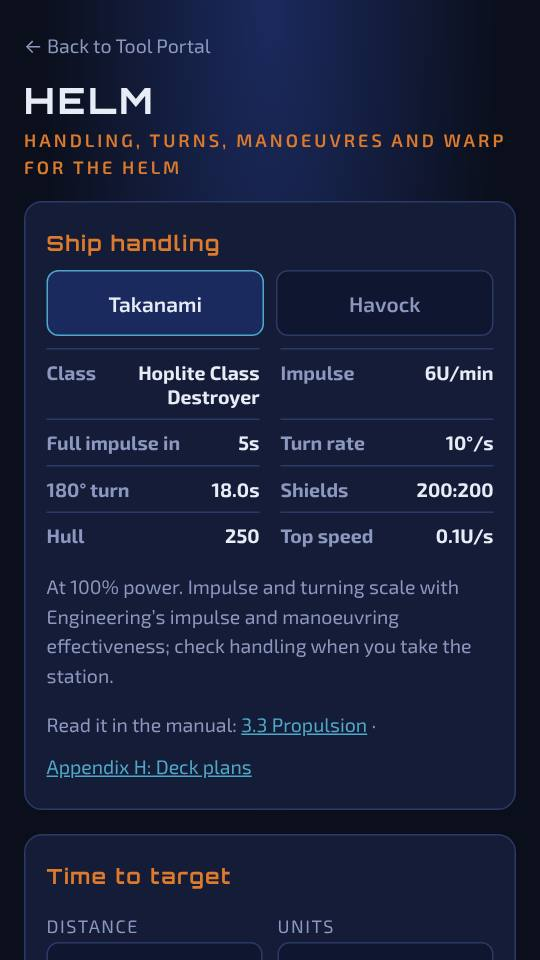
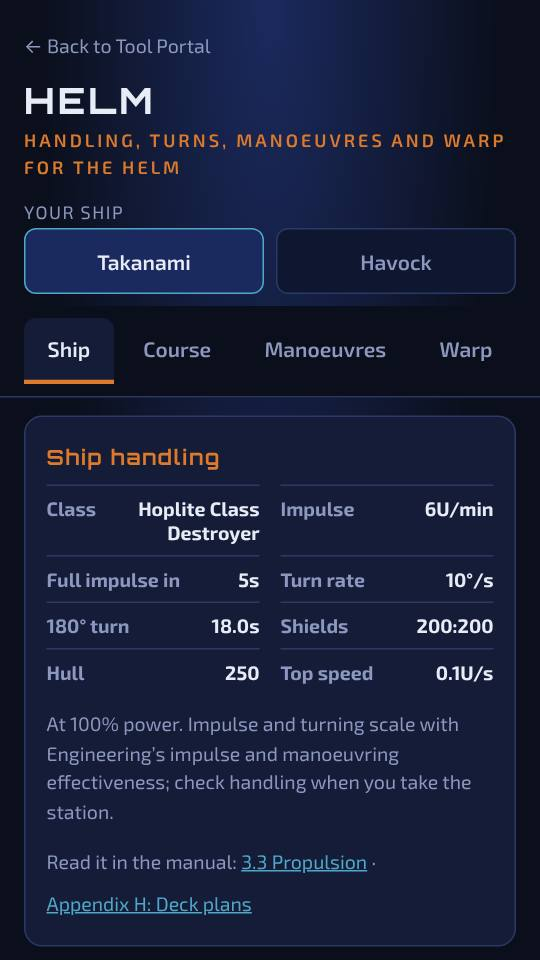
Helm: split into Ship, Course, Manoeuvres and Warp tabs (#41)
The ship picker moves above the tabs, as every tab uses it. The tab bar
stays at the top while scrolling, arrow keys, Home and End move between
tabs, and a new tab starts at its top. Guide text, screenshot and README
updated to match.

Claude-Session: https://claude.ai/code/session_01WVA6oUC4RXBXS3K5Hj3kM3

Changed region(s): [[0.0296, 0.1875, 0.9778, 0.7188], [0.0296, 0.75, 0.9778, 1.0], [0.8593, 0.1875, 0.9778, 0.25]]

diff --git a/helm/index.html b/helm/index.html
@@ -26,6 +26,13 @@
   .back:hover{ color:var(--orange); }
   h1{ font-family:'Orbitron', sans-serif; font-weight:800; font-size:24px; letter-spacing:2px; margin:6px 0 2px; }
   .sub{ margin:0 0 14px; color:var(--orange); font-size:12px; letter-spacing:2px; text-transform:uppercase; font-weight:600; }
+  /* Sticky, so another tab is a tap away however far down the page you are. */
+  .tabs{ position:sticky; top:0; z-index:5; display:flex; gap:4px; margin:0 -16px 12px; padding:8px 16px; background:var(--bg); border-bottom:1px solid var(--border); }
+  .tabs button{
+    flex:1 1 auto; min-height:44px; padding:0 6px; border:0; border-bottom:3px solid transparent; border-radius:8px 8px 0 0;
+    background:none; color:var(--muted); font:600 14px 'Exo 2', sans-serif; cursor:pointer;
+  }
+  .tabs button[aria-selected=true]{ color:var(--text); border-bottom-color:var(--orange); background:var(--panel); }
   .panel{ background:var(--panel); border:1px solid var(--border); border-radius:12px; padding:14px; margin-bottom:16px; }
   h2{ font-family:'Orbitron', sans-serif; font-size:14px; letter-spacing:1px; color:var(--orange); margin:4px 0 10px; }
   .panel h2.mt{ margin-top:24px; }
@@ -109,104 +116,116 @@
   <a class="back" href="../">&larr; Back to Tool Portal</a>
   <h1>HELM</h1>
   <p class="sub">Handling, turns, manoeuvres and warp for the Helm</p>
+  <span class="field-label" id="shipLabel">Your ship</span>
+  <div class="seg" role="group" aria-labelledby="shipLabel" id="ships">
+    <button type="button" data-ship="takanami" aria-pressed="true">Takanami</button>
+    <button type="button" data-ship="havock" aria-pressed="false">Havock</button>
+  </div>
 </header>
 
 <main>
-  <section class="panel" aria-labelledby="shipTitle">
-    <h2 id="shipTitle">Ship handling</h2>
-    <div class="seg" role="group" aria-label="Ship">
-      <button type="button" data-ship="takanami" aria-pressed="true">Takanami</button>
-      <button type="button" data-ship="havock" aria-pressed="false">Havock</button>
-    </div>
-    <div class="stats" id="stats"></div>
-    <p class="note">At 100% power. Impulse and turning scale with Engineering&rsquo;s impulse and manoeuvring effectiveness; check handling when you take the station.</p>
-    <p class="note">Read it in the manual: <a href="../tactical-aids/#doc=pdfs/general-info/UCN-Academy-Manual.pdf&amp;page=30" target="_blank" rel="noopener">3.3 Propulsion</a> · <a href="../tactical-aids/#doc=pdfs/general-info/UCN-Academy-Manual.pdf&amp;page=141" target="_blank" rel="noopener">Appendix H: Deck plans</a></p>
-  </section>
+  <div class="tabs" role="tablist" aria-label="Helm sections">
+    <button type="button" role="tab" id="tab-ship" aria-controls="p-ship" aria-selected="true" tabindex="0">Ship</button>
+    <button type="button" role="tab" id="tab-course" aria-controls="p-course" aria-selected="false" tabindex="-1">Course</button>
+    <button type="button" role="tab" id="tab-manoeuvres" aria-controls="p-manoeuvres" aria-selected="false" tabindex="-1">Manoeuvres</button>
+    <button type="button" role="tab" id="tab-warp" aria-controls="p-warp" aria-selected="false" tabindex="-1">Warp</button>
+  </div>
+  <div role="tabpanel" id="p-ship" aria-labelledby="tab-ship">
+    <section class="panel" aria-labelledby="shipTitle">
+      <h2 id="shipTitle">Ship handling</h2>
+      <div class="stats" id="stats"></div>
+      <p class="note">At 100% power. Impulse and turning scale with Engineering&rsquo;s impulse and manoeuvring effectiveness; check handling when you take the station.</p>
+      <p class="note">Read it in the manual: <a href="../tactical-aids/#doc=pdfs/general-info/UCN-Academy-Manual.pdf&amp;page=30" target="_blank" rel="noopener">3.3 Propulsion</a> · <a href="../tactical-aids/#doc=pdfs/general-info/UCN-Academy-Manual.pdf&amp;page=141" target="_blank" rel="noopener">Appendix H: Deck plans</a></p>
+    </section>
+    <section class="panel" aria-labelledby="cmTitle">
+      <h2 id="cmTitle">Combat manoeuvre</h2>
+      <ul class="facts">
+        <li>Forward boost heats <b>impulse</b>; a sideways strafe heats <b>manoeuvring</b>; a diagonal heats both.</li>
+        <li>A full boost or strafe empties the reserve in about 3 seconds, at about 20&deg; of heat a second (50&ndash;60&deg; in all).</li>
+        <li>A diagonal empties it in about 1.5 seconds, putting 25&ndash;30&deg; of heat into each.</li>
+        <li>It doesn&rsquo;t work at warp.</li>
+      </ul>
+      <h2 class="mt">Recharge time</h2>
+      <label for="cmImp">Impulse effectiveness <output id="cmImpOut" for="cmImp"></output></label>
+      <input type="range" id="cmImp" min="10" max="300" step="10" value="100">
+      <label for="cmMan">Manoeuvring effectiveness <output id="cmManOut" for="cmMan"></output></label>
+      <input type="range" id="cmMan" min="10" max="300" step="10" value="100">
+      <div class="readout"><div>Full again in<b id="recharge"></b></div></div>
+      <p class="note">About 20 seconds at 100%, scaled by the average of the two.</p>
+      <p class="note">Read it in the manual: <a href="../tactical-aids/#doc=pdfs/general-info/UCN-Academy-Manual.pdf&amp;page=31" target="_blank" rel="noopener">3.3.3 Combat Manoeuvre</a></p>
+    </section>
+  </div>
 
-  <section class="panel" aria-labelledby="timeTitle">
-    <h2 id="timeTitle">Time to target</h2>
-    <div class="pair">
-      <label for="dist">Distance <input type="number" id="dist" min="0" step="any" inputmode="decimal" value="1"></label>
-      <label for="unit">Units <select id="unit"><option value="20">Sectors (20U)</option><option value="1">U</option></select></label>
-    </div>
-    <label for="imp">Impulse effectiveness <output id="impOut" for="imp"></output></label>
-    <input type="range" id="imp" min="10" max="300" step="10" value="100">
-    <span class="field-label" id="levelLabel">Warp level</span>
-    <div class="seg" role="group" aria-labelledby="levelLabel" id="levels">
-      <button type="button" data-level="1" aria-pressed="false">1</button>
-      <button type="button" data-level="2" aria-pressed="true">2</button>
-      <button type="button" data-level="3" aria-pressed="false">3</button>
-      <button type="button" data-level="4" aria-pressed="false">4</button>
-    </div>
-    <label for="warpPct">Warp power <output id="warpPctOut" for="warpPct"></output></label>
-    <input type="range" id="warpPct" min="10" max="300" step="5" value="150">
-    <div class="readout" aria-live="polite">
-      <div>On impulse<b id="impTime"></b></div>
-      <div>At warp <span id="warpWhat"></span><b id="warpTime"></b></div>
-    </div>
-    <p class="note">Impulse is timed from a standstill, speeding up to full over 5 seconds. Warp is 1U a second per level at 100% power; allow a few seconds more for the drive to spin up (the warp table&rsquo;s times include it).</p>
-  </section>
+  <div role="tabpanel" id="p-course" aria-labelledby="tab-course" hidden>
+    <section class="panel" aria-labelledby="timeTitle">
+      <h2 id="timeTitle">Time to target</h2>
+      <div class="pair">
+        <label for="dist">Distance <input type="number" id="dist" min="0" step="any" inputmode="decimal" value="1"></label>
+        <label for="unit">Units <select id="unit"><option value="20">Sectors (20U)</option><option value="1">U</option></select></label>
+      </div>
+      <label for="imp">Impulse effectiveness <output id="impOut" for="imp"></output></label>
+      <input type="range" id="imp" min="10" max="300" step="10" value="100">
+      <span class="field-label" id="levelLabel">Warp level</span>
+      <div class="seg" role="group" aria-labelledby="levelLabel" id="levels">
+        <button type="button" data-level="1" aria-pressed="false">1</button>
+        <button type="button" data-level="2" aria-pressed="true">2</button>
+        <button type="button" data-level="3" aria-pressed="false">3</button>
+        <button type="button" data-level="4" aria-pressed="false">4</button>
+      </div>
+      <label for="warpPct">Warp power <output id="warpPctOut" for="warpPct"></output></label>
+      <input type="range" id="warpPct" min="10" max="300" step="5" value="150">
+      <div class="readout" aria-live="polite">
+        <div>On impulse<b id="impTime"></b></div>
+        <div>At warp <span id="warpWhat"></span><b id="warpTime"></b></div>
+      </div>
+      <p class="note">Impulse is timed from a standstill, speeding up to full over 5 seconds. Warp is 1U a second per level at 100% power; allow a few seconds more for the drive to spin up (the warp table&rsquo;s times include it).</p>
+    </section>
+    <section class="panel" aria-labelledby="turnTitle">
+      <h2 id="turnTitle">Bearings and turns</h2>
+      <div class="pair">
+        <label for="heading">Your heading <input type="number" id="heading" min="0" max="359" step="1" inputmode="numeric" value="0"></label>
+        <label for="target">Target bearing <input type="number" id="target" min="0" max="359" step="1" inputmode="numeric" value="90"></label>
+      </div>
+      <label for="man">Manoeuvring effectiveness <output id="manOut" for="man"></output></label>
+      <input type="range" id="man" min="10" max="300" step="10" value="100">
+      <div class="readout" aria-live="polite">
+        <div>Turn<b id="turnWay"></b></div>
+        <div>Takes<b id="turnTime"></b></div>
+        <div>Put it astern<b id="astern"></b></div>
+      </div>
+      <p class="note">The shorter way round. Bearings run clockwise, so a clockwise turn is to starboard. &ldquo;Put it astern&rdquo; is the heading that turns your back on the target: the reciprocal of its bearing.</p>
+    </section>
+  </div>
 
-  <section class="panel" aria-labelledby="turnTitle">
-    <h2 id="turnTitle">Bearings and turns</h2>
-    <div class="pair">
-      <label for="heading">Your heading <input type="number" id="heading" min="0" max="359" step="1" inputmode="numeric" value="0"></label>
-      <label for="target">Target bearing <input type="number" id="target" min="0" max="359" step="1" inputmode="numeric" value="90"></label>
-    </div>
-    <label for="man">Manoeuvring effectiveness <output id="manOut" for="man"></output></label>
-    <input type="range" id="man" min="10" max="300" step="10" value="100">
-    <div class="readout" aria-live="polite">
-      <div>Turn<b id="turnWay"></b></div>
-      <div>Takes<b id="turnTime"></b></div>
-      <div>Put it astern<b id="astern"></b></div>
-    </div>
-    <p class="note">The shorter way round. Bearings run clockwise, so a clockwise turn is to starboard. &ldquo;Put it astern&rdquo; is the heading that turns your back on the target: the reciprocal of its bearing.</p>
-  </section>
+  <div role="tabpanel" id="p-manoeuvres" aria-labelledby="tab-manoeuvres" hidden>
+    <section class="panel" aria-labelledby="advTitle">
+      <h2 id="advTitle">Advanced manoeuvres</h2>
+      <p class="panel-sub">The Academy&rsquo;s set pieces, with who says what. Tap one to open it.</p>
+      <div id="manoeuvres"></div>
+    </section>
+  </div>
 
-  <section class="panel" aria-labelledby="cmTitle">
-    <h2 id="cmTitle">Combat manoeuvre</h2>
-    <ul class="facts">
-      <li>Forward boost heats <b>impulse</b>; a sideways strafe heats <b>manoeuvring</b>; a diagonal heats both.</li>
-      <li>A full boost or strafe empties the reserve in about 3 seconds, at about 20&deg; of heat a second (50&ndash;60&deg; in all).</li>
-      <li>A diagonal empties it in about 1.5 seconds, putting 25&ndash;30&deg; of heat into each.</li>
-      <li>It doesn&rsquo;t work at warp.</li>
-    </ul>
-    <h2 class="mt">Recharge time</h2>
-    <label for="cmImp">Impulse effectiveness <output id="cmImpOut" for="cmImp"></output></label>
-    <input type="range" id="cmImp" min="10" max="300" step="10" value="100">
-    <label for="cmMan">Manoeuvring effectiveness <output id="cmManOut" for="cmMan"></output></label>
-    <input type="range" id="cmMan" min="10" max="300" step="10" value="100">
-    <div class="readout"><div>Full again in<b id="recharge"></b></div></div>
-    <p class="note">About 20 seconds at 100%, scaled by the average of the two.</p>
-    <p class="note">Read it in the manual: <a href="../tactical-aids/#doc=pdfs/general-info/UCN-Academy-Manual.pdf&amp;page=31" target="_blank" rel="noopener">3.3.3 Combat Manoeuvre</a></p>
-  </section>
-
-  <section class="panel" aria-labelledby="advTitle">
-    <h2 id="advTitle">Advanced manoeuvres</h2>
-    <p class="panel-sub">The Academy&rsquo;s set pieces, with who says what. Tap one to open it.</p>
-    <div id="manoeuvres"></div>
-  </section>
-
-  <section class="panel" aria-labelledby="checkTitle">
-    <h2 id="checkTitle">Before engaging warp</h2>
-    <ul class="checks" id="checks"></ul>
-    <p class="ready" id="ready" aria-live="polite"></p>
-    <button type="button" class="btn" id="resetChecks">Reset checklist</button>
-    <div class="calls" id="calls"></div>
-    <p class="note">Mines stay dangerous after the fight: plot round them.</p>
-    <p class="note">Read it in the manual: <a href="../tactical-aids/#doc=pdfs/general-info/UCN-Academy-Manual.pdf&amp;page=72" target="_blank" rel="noopener">5.1 Helm</a></p>
-  </section>
-
-  <section class="panel" aria-labelledby="warpTitle">
-    <h2 id="warpTitle">Warp guide</h2>
-    <p class="panel-sub">The Academy&rsquo;s fastest setup for each distance. Engineering sets the power and coolant: the full setups are in the <a href="../engineering/">Engineering</a> tool.</p>
-    <table>
-      <thead><tr><th scope="col">Sectors</th><th scope="col">Warp</th><th scope="col">Power</th><th scope="col">Top speed</th><th scope="col">Time</th></tr></thead>
-      <tbody id="warpTable"></tbody>
-    </table>
-    <p class="note">Read it in the manual: <a href="../tactical-aids/#doc=pdfs/general-info/UCN-Academy-Manual.pdf&amp;page=135" target="_blank" rel="noopener">Appendix F: Warp Power Configurations</a></p>
-    <div id="warpExtras"></div>
-  </section>
+  <div role="tabpanel" id="p-warp" aria-labelledby="tab-warp" hidden>
+    <section class="panel" aria-labelledby="checkTitle">
+      <h2 id="checkTitle">Before engaging warp</h2>
+      <ul class="checks" id="checks"></ul>
+      <p class="ready" id="ready" aria-live="polite"></p>
+      <button type="button" class="btn" id="resetChecks">Reset checklist</button>
+      <div class="calls" id="calls"></div>
+      <p class="note">Mines stay dangerous after the fight: plot round them.</p>
+      <p class="note">Read it in the manual: <a href="../tactical-aids/#doc=pdfs/general-info/UCN-Academy-Manual.pdf&amp;page=72" target="_blank" rel="noopener">5.1 Helm</a></p>
+    </section>
+    <section class="panel" aria-labelledby="warpTitle">
+      <h2 id="warpTitle">Warp guide</h2>
+      <p class="panel-sub">The Academy&rsquo;s fastest setup for each distance. Engineering sets the power and coolant: the full setups are in the <a href="../engineering/">Engineering</a> tool.</p>
+      <table>
+        <thead><tr><th scope="col">Sectors</th><th scope="col">Warp</th><th scope="col">Power</th><th scope="col">Top speed</th><th scope="col">Time</th></tr></thead>
+        <tbody id="warpTable"></tbody>
+      </table>
+      <p class="note">Read it in the manual: <a href="../tactical-aids/#doc=pdfs/general-info/UCN-Academy-Manual.pdf&amp;page=135" target="_blank" rel="noopener">Appendix F: Warp Power Configurations</a></p>
+      <div id="warpExtras"></div>
+    </section>
+  </div>
 </main>
 
 <footer>Figures from the unofficial UCN Academy Manual (3.3, 5.1 and Appendices F, G and H) and the UCN Effective Guide to Warp. Fan-made reference for the UCN tools. Not affiliated with, endorsed by, or approved by Bridge Command / The London Space Elevator Limited.</footer>
@@ -344,7 +363,7 @@
 
   function showShip() {
     const s = ship();
-    press(document.querySelector('[aria-label="Ship"]'), 'ship', shipId);
+    press($('ships'), 'ship', shipId);
     $('stats').innerHTML = [
       ['Class', s.cls], ['Impulse', +(s.impulse * 60).toFixed(1) + 'U/min'],
       ['Full impulse in', s.toFull + 's'], ['Turn rate', s.turn + '°/s'],
@@ -386,7 +405,7 @@
     $('ready').className = 'ready' + (done === boxes.length ? ' go' : '');
   }
 
-  document.querySelector('[aria-label="Ship"]').addEventListener('click', e => {
+  $('ships').addEventListener('click', e => {
     const b = e.target.closest('button');
     if (!b) return;
     shipId = b.dataset.ship;
@@ -415,6 +434,31 @@
   ucnWarpExtras($('warpExtras'));
 
   showShip(); showTime(); showTurn(); showRecharge(); showChecks();
+
+  // Tabs. Arrow keys, Home and End move between them, as a tablist should.
+  const tabs = [...document.querySelectorAll('[role=tab]')];
+  function selectTab(tab) {
+    tabs.forEach(t => {
+      const on = t === tab;
+      t.setAttribute('aria-selected', String(on));
+      t.tabIndex = on ? 0 : -1;
+      $(t.getAttribute('aria-controls')).hidden = !on;
+    });
+    // Start the new tab at its top if the page was scrolled down past the tabs.
+    const top = document.querySelector('main').offsetTop;
+    if (window.scrollY > top) window.scrollTo(0, top);
+  }
+  tabs.forEach((t, i) => {
+    t.addEventListener('click', () => selectTab(t));
+    t.addEventListener('keydown', e => {
+      const to = { ArrowRight: i + 1, ArrowLeft: i - 1, Home: 0, End: tabs.length - 1 }[e.key];
+      if (to === undefined) return;
+      e.preventDefault();
+      const next = tabs[(to + tabs.length) % tabs.length];
+      selectTab(next);
+      next.focus();
+    });
+  });
 </script>
 <script>
   // Offline support. Only over https (or localhost): a page opened as a file has nothing to store.

diff --git a/guide/index.html b/guide/index.html
@@ -191,12 +191,11 @@
     <p class="what v-plain">Ship handling, journey and turn times, bearings, combat manoeuvre, the Academy's advanced manoeuvres, a pre-warp checklist and the warp setups.</p>
     <p class="what v-cadet">You have the conn. Know how fast she turns, how long the run will take, and which set piece gets the crew out alive.</p>
     <ul class="steps">
-      <li>Pick your ship, the <b>Takanami</b> or the <b>Havock</b>, for its speed, turn rate, shields and hull. The tool remembers it.</li>
-      <li><b>Time to target</b>: enter a distance in sectors or U for the time on impulse and at warp, with Engineering's power.</li>
-      <li><b>Bearings and turns</b>: your heading and the target's bearing give which way to turn, how far, how long it takes, and the heading that puts the target astern.</li>
-      <li><b>Combat manoeuvre</b>: what heats what, and how long the reserve takes to refill.</li>
-      <li><b>Advanced manoeuvres</b>: About Face, Breakthrough, Special Delivery, Longbow Shot and Monkey at the Zoo, step by step with who says what.</li>
-      <li><b>Before engaging warp</b>: a checklist and the calls to know, then the <b>Warp guide</b>, its field setups and the same Elite Hidden Tactic as Engineering.</li>
+      <li>Pick your ship at the top, the <b>Takanami</b> or the <b>Havock</b>; the tool remembers it. Then four tabs: <b>Ship</b>, <b>Course</b>, <b>Manoeuvres</b> and <b>Warp</b>.</li>
+      <li><b>Ship</b>: speed, turn rate, shields and hull, and <b>combat manoeuvre</b>: what heats what, and how long the reserve takes to refill.</li>
+      <li><b>Course</b>: a distance in sectors or U gives the time on impulse and at warp, with Engineering's power. Your heading and the target's bearing give which way to turn, how far, how long it takes, and the heading that puts the target astern.</li>
+      <li><b>Manoeuvres</b>: About Face, Breakthrough, Special Delivery, Longbow Shot and Monkey at the Zoo, step by step with who says what.</li>
+      <li><b>Warp</b>: a checklist and the calls to know before engaging warp, then the warp guide, its field setups and the same Elite Hidden Tactic as Engineering.</li>
     </ul>
     <details><summary>What it looks like</summary><img src="img/helm.jpg" alt="Helm on a phone" width="360" height="640" loading="lazy"></details>
   </section>

diff --git a/helm/README.md b/helm/README.md
@@ -1,7 +1,9 @@
 # UCN Helm
 
 A quick reference for the Helm, using the figures in the UCN Academy Manual
-(also in Tactical Aids → General Info):
+(also in Tactical Aids → General Info). The ship picker sits at the top; the
+rest is in four tabs: Ship (handling, combat manoeuvre), Course (time to
+target, bearings and turns), Manoeuvres and Warp (checklist, warp guide).
 
 - **Ship handling**: the Takanami's or the Havock's speed, acceleration, turn
   rate, shields and hull (3.3 and Appendix H). The tool remembers the ship.
